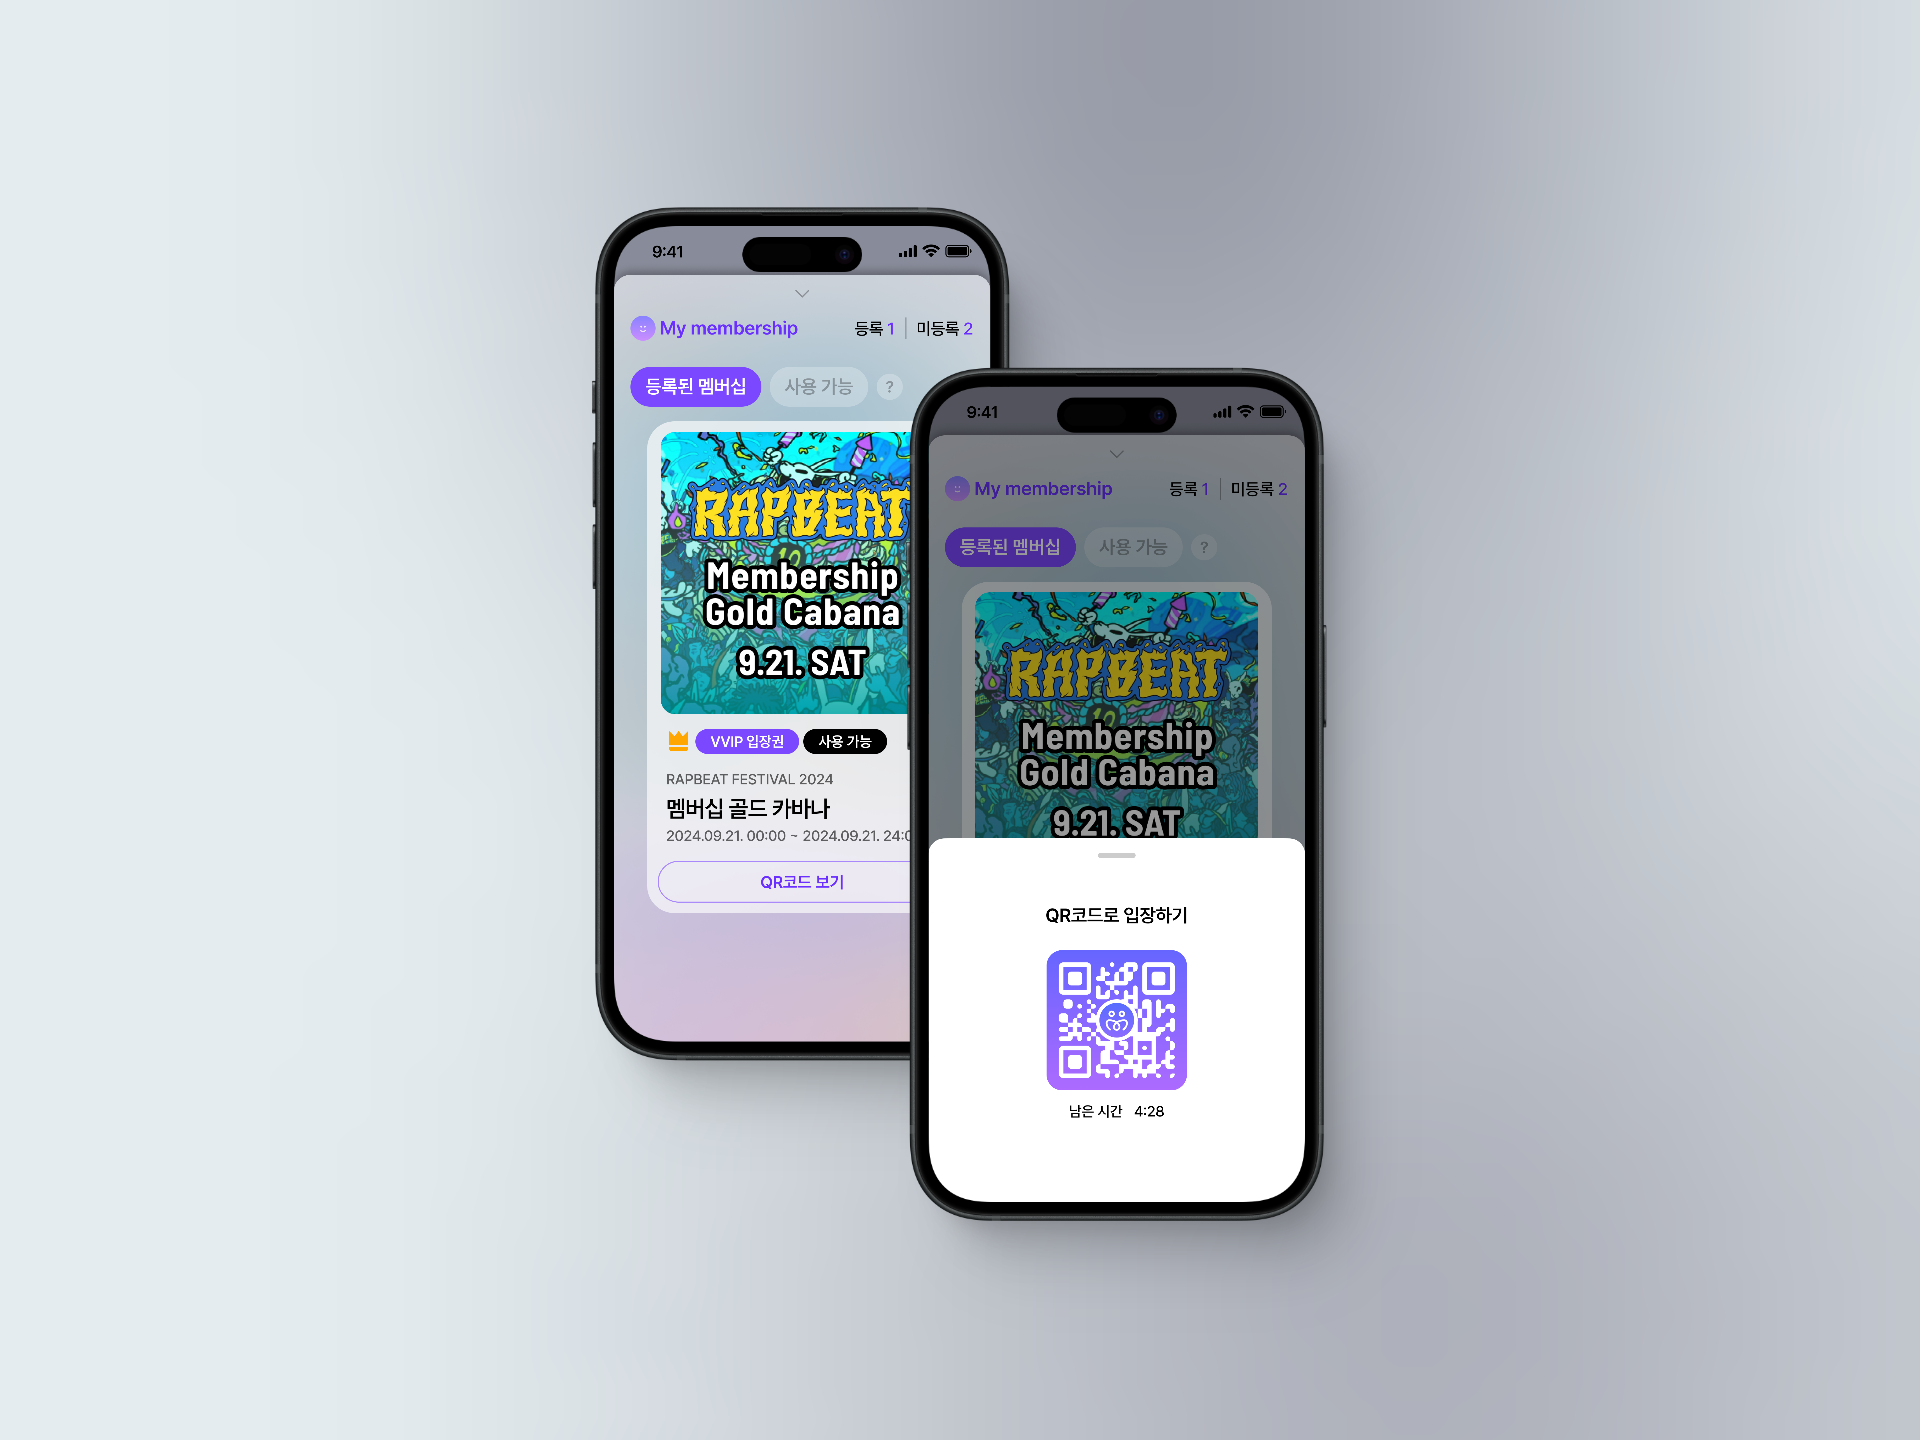
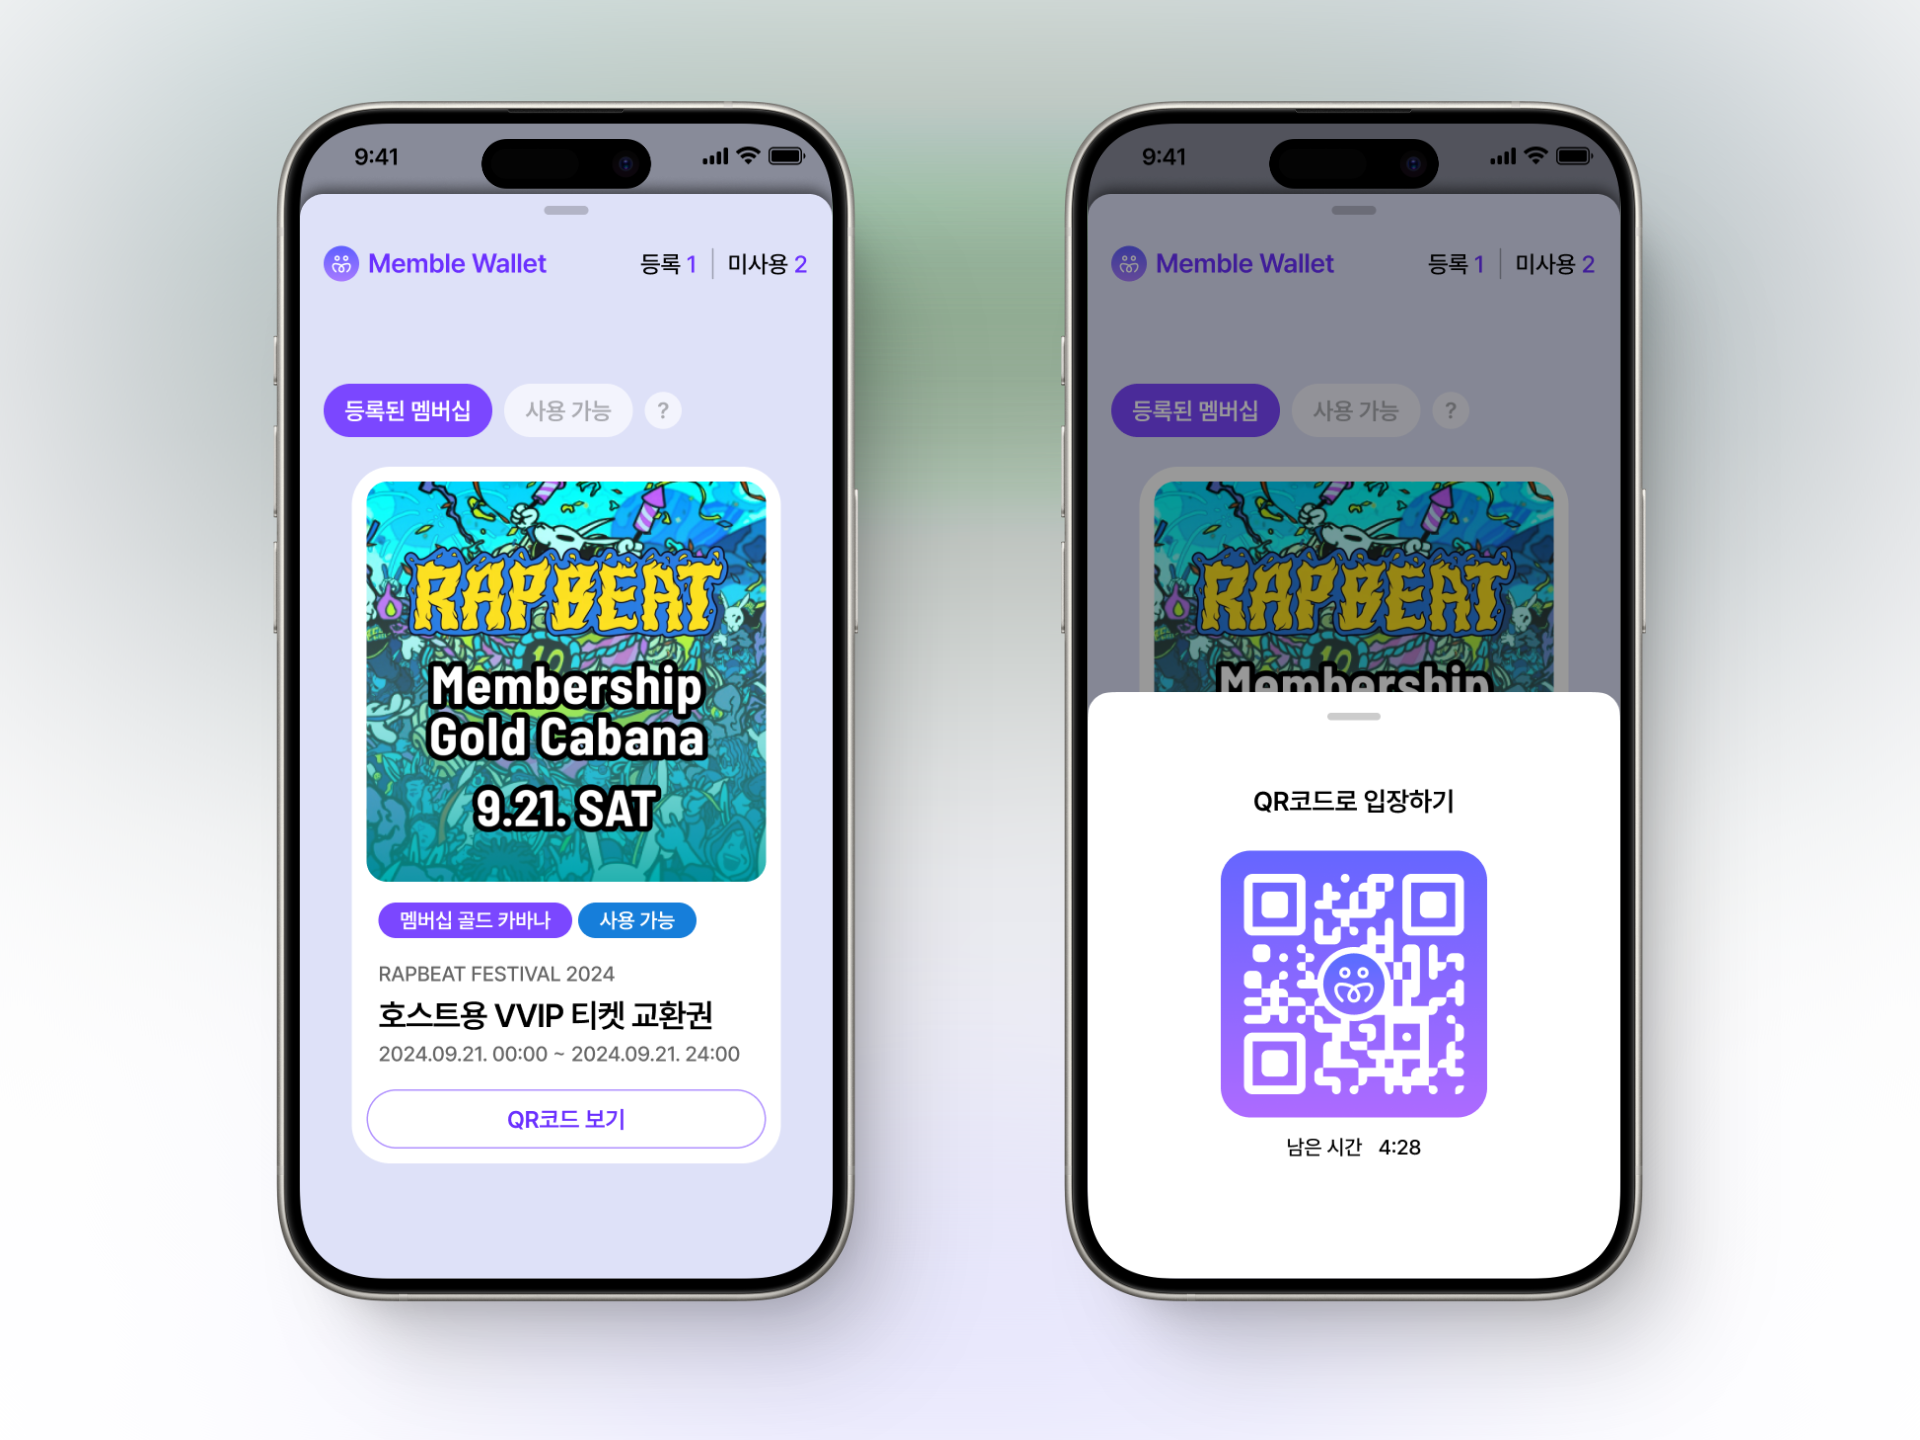
edit content

diff --git a/introduce-memble/04_register_membership.html b/introduce-memble/04_register_membership.html
@@ -243,7 +243,7 @@
                 <h2 class="section-title">🎉 멤버십 등록하기</h2>
                 <div class="text-block">
                     Memble에서 구매한 멤버십을 등록하는 방법은 매우 간단합니다.
-                    <span class="emphasis">홈 화면의 하단에 My membership을 위로 올려 ‘사용가능’ 탭</span> 
+                    <span class="emphasis">홈 화면의 하단에 Memble Wallet을 위로 올려 ‘사용가능’ 탭</span> 
                     에서 등록하고자 하는 멤버십을 선택하고 ‘등록하기’ 버튼을 눌러주세요!                </div>
                 <div class="text-block">
                     <span class="emphasis">주의:</span> 멤버십 등록 후에는 등록을 취소할 수 없습니다. 신중하게 확인 후 등록해주세요.
@@ -255,7 +255,7 @@
 
                 <h2 class="section-title">💎 멤버십 사용하기</h2>
                 <div class="text-block">
-                    등록된 멤버십은 '내 멤버십' 섹션에서 확인할 수 있습니다. 각 멤버십 카드를 클릭하면 상세 정보와 함께 QR 코드가 나타납니다. 이벤트 입장 시 이 QR 코드를 제시하면 됩니다.
+                    등록된 멤버십은 <span class="emphasis">Memble Wallet 섹션</span>에서 확인할 수 있습니다. 각 멤버십 카드를 클릭하면 상세 정보와 함께 QR 코드가 나타납니다. 이벤트 입장 시 이 QR 코드를 제시하면 됩니다.
                 </div>
                 <div class="text-block">
                     <span class="emphasis">팁:</span> QR 코드 스캔이 원활하도록 화면 밝기를 최대로 설정하는 것이 좋습니다.

diff --git a/rapbeat-content/01_freestyle_battle_event.html b/rapbeat-content/01_freestyle_battle_event.html
@@ -225,7 +225,7 @@
             <ul>
                 <li>선착순 현장 지원 (최대 40인)</li>
                 <li>랜덤 싸이퍼를 통해 8강 진출자 선별</li>
-                <li>8강 본선부터 1:1 배틀 (각자 16마씩, 공수 교대 1회 진행)</li>
+                <li>8강 본선부터 1:1 배틀 (각자 16마디씩, 공수 교대 1회 진행)</li>
             </ul>
             
             <div class="text-block">래퍼님들, 여러분의 마이크를 준비하세요. Korean 힙합의 미래가 여러분의 입에 달려있습니다!</div>

diff --git a/introduce-memble/02_shop_buy.html b/introduce-memble/02_shop_buy.html
@@ -530,7 +530,6 @@
                                     <div class="network-name">Ethereum</div>
                                     <div class="currency-list">
                                         <span class="currency">USDT</span>
-                                        <span class="currency">USDC</span>
                                     </div>
                                 </div>
                             </div>
